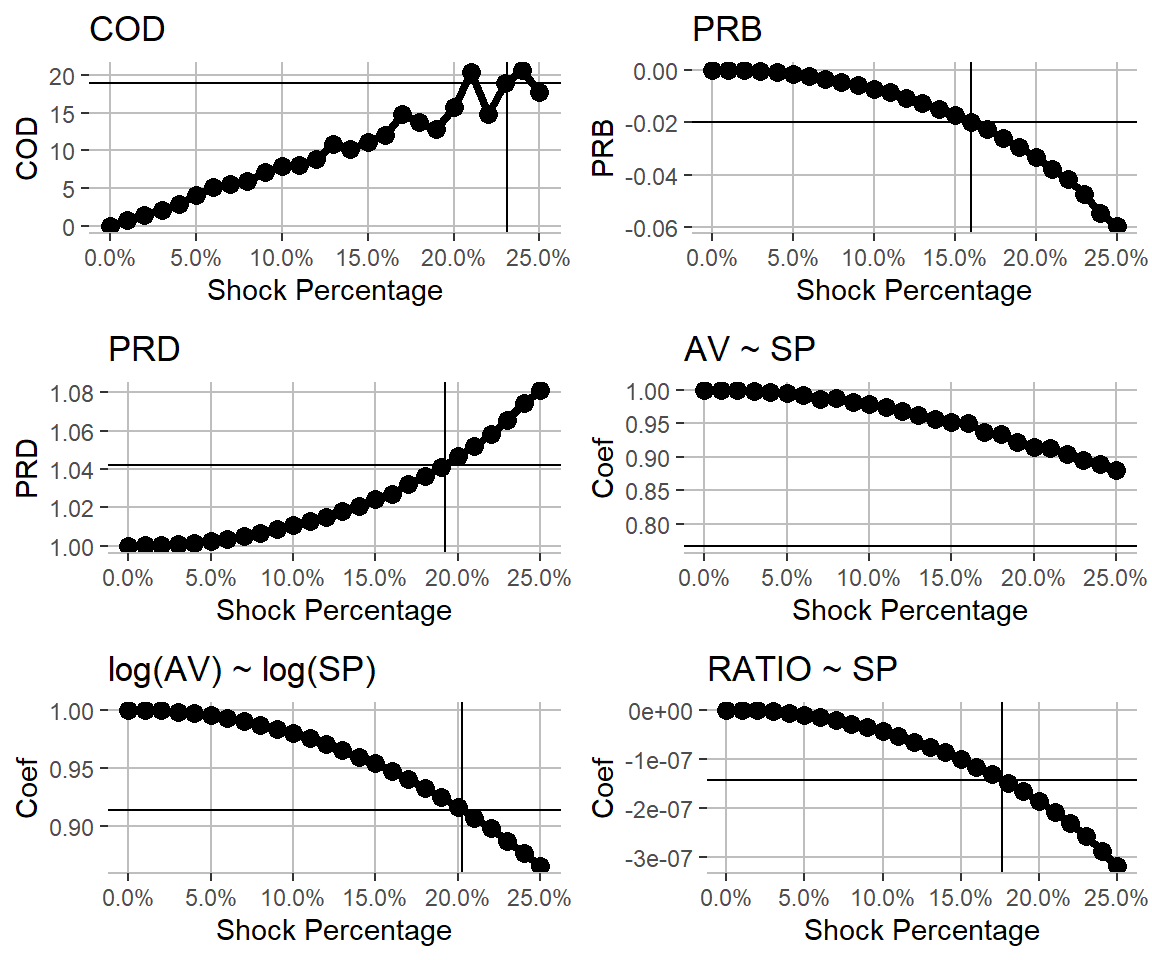
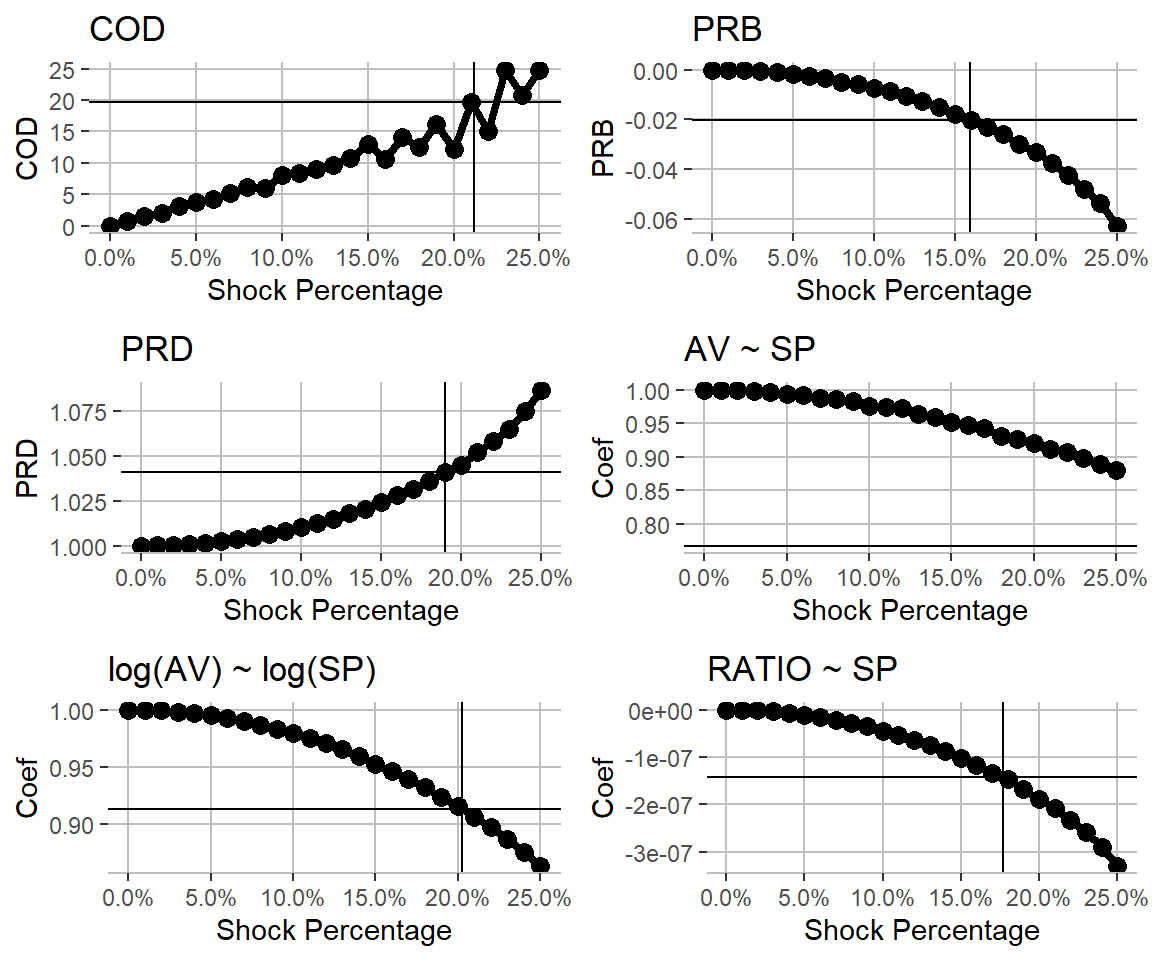
updating documentation

diff --git a/docs/articles/Figures.html b/docs/articles/Figures.html
@@ -121,7 +121,7 @@
 <div class="sourceCode" id="cb2"><html><body><pre class="r"><span class="kw pkg">rmarkdown</span><span class="kw ns">::</span><span class="fu"><a href="https://rdrr.io/pkg/rmarkdown/man/paged_table.html">paged_table</a></span>(<span class="no">stats</span>)</pre></body></html></div>
 <div data-pagedtable="false">
 <script data-pagedtable-source type="application/json">
-{"columns":[{"label":["N"],"name":[1],"type":["int"],"align":["right"]},{"label":["COD"],"name":[2],"type":["dbl"],"align":["right"]},{"label":["COD_SE"],"name":[3],"type":["dbl"],"align":["right"]},{"label":["PRD"],"name":[4],"type":["dbl"],"align":["right"]},{"label":["PRD_SE"],"name":[5],"type":["dbl"],"align":["right"]},{"label":["PRB"],"name":[6],"type":["dbl"],"align":["right"]},{"label":["PRB_SE"],"name":[7],"type":["dbl"],"align":["right"]},{"label":["q1_ratio"],"name":[8],"type":["dbl"],"align":["right"]},{"label":["median_ratio"],"name":[9],"type":["dbl"],"align":["right"]},{"label":["q3_ratio"],"name":[10],"type":["dbl"],"align":["right"]},{"label":["q1_sale"],"name":[11],"type":["dbl"],"align":["right"]},{"label":["median_sale"],"name":[12],"type":["dbl"],"align":["right"]},{"label":["q3_sale"],"name":[13],"type":["dbl"],"align":["right"]},{"label":["q1_assessed_value"],"name":[14],"type":["dbl"],"align":["right"]},{"label":["median_assessed_value"],"name":[15],"type":["dbl"],"align":["right"]},{"label":["q3_assessed_value"],"name":[16],"type":["dbl"],"align":["right"]},{"label":["Year"],"name":[17],"type":["dbl"],"align":["right"]}],"data":[{"1":"51879","2":"19.2795","3":"5.8963","4":"1.0563","5":"0.0108","6":"-0.0514","7":"0.0012","8":"0.7758364","9":"0.9093448","10":"1.057180","11":"148000","12":"230000","13":"375000","14":"136670.0","15":"213430","16":"331235.0","17":"2015"},{"1":"62852","2":"19.6673","3":"6.2137","4":"1.0917","5":"0.0107","6":"-0.0462","7":"0.0011","8":"0.7705720","9":"0.9001375","10":"1.060422","11":"148000","12":"229900","13":"365000","14":"133940.0","15":"209150","16":"321720.0","17":"2016"},{"1":"65961","2":"19.9115","3":"6.0360","4":"1.0488","5":"0.0112","6":"-0.0269","7":"0.0011","8":"0.7428108","9":"0.8732099","10":"1.031267","11":"155000","12":"235000","13":"365000","14":"136960.0","15":"209380","16":"316300.0","17":"2017"},{"1":"65298","2":"18.5810","3":"5.7050","4":"1.0286","5":"0.0051","6":"0.0133","7":"0.0010","8":"0.7470336","9":"0.8856039","10":"1.021504","11":"159642","12":"239900","13":"370000","14":"132382.5","15":"210645","16":"331257.5","17":"2018"},{"1":"62041","2":"17.3901","3":"5.2465","4":"1.0060","5":"0.0063","6":"0.0098","7":"0.0010","8":"0.7681042","9":"0.9035000","10":"1.036399","11":"164900","12":"245000","13":"372000","14":"140220.0","15":"217690","16":"336480.0","17":"2019"}],"options":{"columns":{"min":{},"max":[10]},"rows":{"min":[10],"max":[10]},"pages":{}}}
+{"columns":[{"label":["N"],"name":[1],"type":["int"],"align":["right"]},{"label":["COD"],"name":[2],"type":["dbl"],"align":["right"]},{"label":["COD_SE"],"name":[3],"type":["dbl"],"align":["right"]},{"label":["PRD"],"name":[4],"type":["dbl"],"align":["right"]},{"label":["PRD_SE"],"name":[5],"type":["dbl"],"align":["right"]},{"label":["PRB"],"name":[6],"type":["dbl"],"align":["right"]},{"label":["PRB_SE"],"name":[7],"type":["dbl"],"align":["right"]},{"label":["q1_ratio"],"name":[8],"type":["dbl"],"align":["right"]},{"label":["median_ratio"],"name":[9],"type":["dbl"],"align":["right"]},{"label":["q3_ratio"],"name":[10],"type":["dbl"],"align":["right"]},{"label":["q1_sale"],"name":[11],"type":["dbl"],"align":["right"]},{"label":["median_sale"],"name":[12],"type":["dbl"],"align":["right"]},{"label":["q3_sale"],"name":[13],"type":["dbl"],"align":["right"]},{"label":["q1_assessed_value"],"name":[14],"type":["dbl"],"align":["right"]},{"label":["median_assessed_value"],"name":[15],"type":["dbl"],"align":["right"]},{"label":["q3_assessed_value"],"name":[16],"type":["dbl"],"align":["right"]},{"label":["Year"],"name":[17],"type":["dbl"],"align":["right"]}],"data":[{"1":"51879","2":"19.4110","3":"5.9331","4":"1.0729","5":"0.0066","6":"-0.0514","7":"0.0012","8":"0.7758364","9":"0.9093448","10":"1.057180","11":"148000","12":"230000","13":"375000","14":"136670.0","15":"213430","16":"331235.0","17":"2015"},{"1":"62852","2":"20.1189","3":"6.3286","4":"1.0532","5":"0.0075","6":"-0.0462","7":"0.0011","8":"0.7705720","9":"0.9001375","10":"1.060422","11":"148000","12":"229900","13":"365000","14":"133940.0","15":"209150","16":"321720.0","17":"2016"},{"1":"65961","2":"20.5147","3":"6.3331","4":"1.0687","5":"0.0076","6":"-0.0269","7":"0.0011","8":"0.7428108","9":"0.8732099","10":"1.031267","11":"155000","12":"235000","13":"365000","14":"136960.0","15":"209380","16":"316300.0","17":"2017"},{"1":"65298","2":"18.5544","3":"5.6591","4":"1.0305","5":"0.0072","6":"0.0133","7":"0.0010","8":"0.7470336","9":"0.8856039","10":"1.021504","11":"159642","12":"239900","13":"370000","14":"132382.5","15":"210645","16":"331257.5","17":"2018"},{"1":"62041","2":"17.8078","3":"5.5068","4":"1.0226","5":"0.0051","6":"0.0098","7":"0.0010","8":"0.7681042","9":"0.9035000","10":"1.036399","11":"164900","12":"245000","13":"372000","14":"140220.0","15":"217690","16":"336480.0","17":"2019"}],"options":{"columns":{"min":{},"max":[10]},"rows":{"min":[10],"max":[10]},"pages":{}}}
   </script>
 </div>
 </div>
@@ -522,7 +522,7 @@ AV ~ SP + low + high + low * SP + high * SP
 <h2 class="hasAnchor">
 <a href="#coefficient-of-dispersion-cod" class="anchor"></a>Coefficient of Dispersion (COD)</h2>
 <div class="sourceCode" id="cb6"><html><body><pre class="r"><span class="fu"><a href="https://rdrr.io/r/base/print.html">print</a></span>(<span class="no">iaao_rslt</span><span class="kw">[[</span><span class="fl">1</span>]])
-<span class="co">#&gt; [1] "For 2019, the COD in Cook County, Illinois was 17.39 which &lt;b&gt;did not meet&lt;/b&gt; the IAAO standard for uniformity. "</span>
+<span class="co">#&gt; [1] "For 2019, the COD in Cook County, Illinois was 17.81 which &lt;b&gt;did not meet&lt;/b&gt; the IAAO standard for uniformity. "</span>
 <span class="no">iaao_rslt</span><span class="kw">[[</span><span class="fl">2</span>]]</pre></body></html></div>
 <p><img src="Figures_files/figure-html/codgraph-1.png" width="576"></p>
 </div>
@@ -530,7 +530,7 @@ AV ~ SP + low + high + low * SP + high * SP
 <h2 class="hasAnchor">
 <a href="#price-related-differential-prd" class="anchor"></a>Price-Related Differential (PRD)</h2>
 <div class="sourceCode" id="cb7"><html><body><pre class="r"><span class="fu"><a href="https://rdrr.io/r/base/print.html">print</a></span>(<span class="no">iaao_rslt</span><span class="kw">[[</span><span class="fl">3</span>]])
-<span class="co">#&gt; [1] " In 2019, the PRD in  Cook County, Illinois, was 1.006 which &lt;b&gt;meets &lt;/b&gt; the IAAO standard for vertical equity."</span>
+<span class="co">#&gt; [1] " In 2019, the PRD in  Cook County, Illinois, was 1.023 which &lt;b&gt;meets &lt;/b&gt; the IAAO standard for vertical equity."</span>
 <span class="no">iaao_rslt</span><span class="kw">[[</span><span class="fl">4</span>]]</pre></body></html></div>
 <p><img src="Figures_files/figure-html/prdgraph-1.png" width="576"></p>
 </div>

diff --git a/docs/articles/cmfproperty.html b/docs/articles/cmfproperty.html
@@ -163,11 +163,11 @@
 <div class="sourceCode" id="cb5"><html><body><pre class="r"><span class="no">stats</span> <span class="kw">&lt;-</span> <span class="kw pkg">cmfproperty</span><span class="kw ns">::</span><span class="fu"><a href="../reference/calc_iaao_stats.html">calc_iaao_stats</a></span>(<span class="no">ratios</span>)
 <span class="fu"><a href="https://rdrr.io/r/utils/head.html">head</a></span>(<span class="no">stats</span>)
 <span class="co">#&gt;       N     COD COD_SE    PRD PRD_SE     PRB PRB_SE  q1_ratio median_ratio</span>
-<span class="co">#&gt; 1 51879 19.4676 6.4541 1.0463 0.0090 -0.0514 0.0012 0.7758364    0.9093448</span>
-<span class="co">#&gt; 2 62852 20.1144 6.3029 1.0572 0.0105 -0.0462 0.0011 0.7705720    0.9001375</span>
-<span class="co">#&gt; 3 65961 19.5567 5.6424 1.0723 0.0127 -0.0269 0.0011 0.7428108    0.8732099</span>
-<span class="co">#&gt; 4 65298 18.7857 6.0693 1.0314 0.0062  0.0133 0.0010 0.7470336    0.8856039</span>
-<span class="co">#&gt; 5 62041 17.8816 5.2596 1.0212 0.0108  0.0098 0.0010 0.7681042    0.9035000</span>
+<span class="co">#&gt; 1 51879 19.1510 6.0944 1.0814 0.0126 -0.0514 0.0012 0.7758364    0.9093448</span>
+<span class="co">#&gt; 2 62852 20.0748 6.0589 1.0666 0.0072 -0.0462 0.0011 0.7705720    0.9001375</span>
+<span class="co">#&gt; 3 65961 19.8466 5.9027 1.0502 0.0060 -0.0269 0.0011 0.7428108    0.8732099</span>
+<span class="co">#&gt; 4 65298 19.0111 5.3839 1.0257 0.0050  0.0133 0.0010 0.7470336    0.8856039</span>
+<span class="co">#&gt; 5 62041 17.4388 5.4710 1.0006 0.0061  0.0098 0.0010 0.7681042    0.9035000</span>
 <span class="co">#&gt;   q3_ratio q1_sale median_sale q3_sale q1_assessed_value median_assessed_value</span>
 <span class="co">#&gt; 1 1.057180  148000      230000  375000          136670.0                213430</span>
 <span class="co">#&gt; 2 1.060422  148000      229900  365000          133940.0                209150</span>

diff --git a/docs/articles/Methods.html b/docs/articles/Methods.html
@@ -102,10 +102,9 @@
     
     
 <p>This article is a reference section to verify that this package calculates various metrics correctly.</p>
-<div id="calc_iaao_stats" class="section level1">
-<h1 class="hasAnchor">
-<a href="#calc_iaao_stats" class="anchor"></a><code>calc_iaao_stats</code>
-</h1>
+<div id="calc_iaao_stats" class="section level2">
+<h2 class="hasAnchor">
+<a href="#calc_iaao_stats" class="anchor"></a>calc_iaao_stats</h2>
 <div id="coefficient-of-dispersion-cod" class="section level3">
 <h3 class="hasAnchor">
 <a href="#coefficient-of-dispersion-cod" class="anchor"></a>Coefficient of Dispersion (COD)</h3>
@@ -123,11 +122,12 @@
 <div id="arms-length-measure" class="section level3">
 <h3 class="hasAnchor">
 <a href="#arms-length-measure" class="anchor"></a>Arms-Length Measure</h3>
+<p><span class="math display">\[Percentile_{25}(SalesRatio) - (1.5 * IQR(SalesRatio)) &lt; SalesRatio_i &lt; Percentile_{75}(SalesRatio) + (1.5 * IQR(SalesRatio)) \]</span></p>
 </div>
 </div>
-<div id="regression_tests-from-hodge-2017" class="section level1">
-<h1 class="hasAnchor">
-<a href="#regression_tests-from-hodge-2017" class="anchor"></a><code>regression_tests</code> (from Hodge 2017)</h1>
+<div id="regression_tests-from-hodge-2017" class="section level2">
+<h2 class="hasAnchor">
+<a href="#regression_tests-from-hodge-2017" class="anchor"></a>regression_tests (from Hodge 2017)</h2>
 <div id="paglin" class="section level3">
 <h3 class="hasAnchor">
 <a href="#paglin" class="anchor"></a>Paglin</h3>
